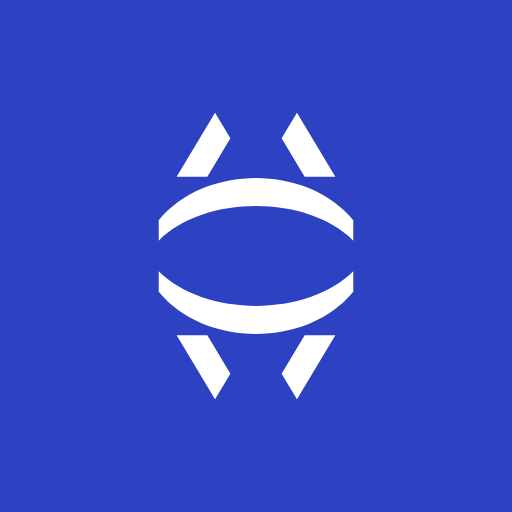
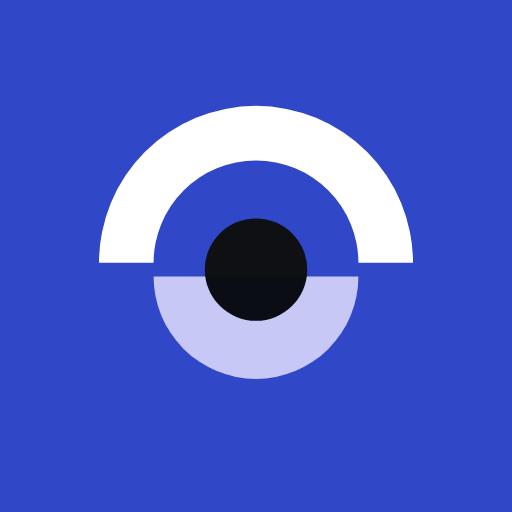
Reformulação 2: símbolo C · Pálpebra, ícones do app e olho carregando
Claude-Session: https://claude.ai/code/session_0161rdvNizfiCsBbM8YzYtuJ

Changed region(s): [[0.1875, 0.1875, 0.8125, 0.7812]]

diff --git a/app/ui/Geometria.tsx b/app/ui/Geometria.tsx
@@ -1,39 +1,39 @@
 /**
  * Linguagem geométrica do Monitora: círculos, arcos e interseções em módulos.
- * Marca: "lente" — dois arcos que afinam nas pontas (pálpebra aberta: observar) e quatro colchetes que enquadram a cidade.
- * Órbita: arcos concêntricos para carregamento — gira devagar (interação), para com reduced-motion.
+ * Marca: o olho "C · Pálpebra". Carregando: o olho pisca devagar.
  */
 /**
- * Marca do Monitora — "lente": dois arcos que afinam nas pontas formam uma pálpebra aberta (observar)
- * e quatro colchetes por fora enquadram a cidade. Simétrica nos dois eixos; viewBox 120; cor = currentColor.
- * Mesmos caminhos de public/icone.svg (lá em branco, escala 0,8, sobre #2C42C2).
+ * Marca do Monitora — símbolo "C · Pálpebra" (docs/REFORMULACAO.md, prancha docs/reformulacao/Simbolo2.dc.html).
+ * Um olho aberto em três peças sobre viewBox 120: o arco de cima (pálpebra), o meio-disco de baixo (base) e a pupila,
+ * sobreposta às duas com multiply (onde se cruzam, a cor escurece). Em ≤ 32 px usa a versão de fresta maior.
+ * Cores: no papel = lilás / ultramarino / tinta; no azul = branco / lilás / tinta.
  */
-export const MARCA_CAMINHOS = [
-  "M 98 46 C 80 24 40 24 22 46 L 22 54 C 40 36 80 36 98 54Z",
-  "M 98 74 C 80 96 40 96 22 74 L 22 66 C 40 84 80 84 98 66Z",
-  "M 76 4 L 91 29 L 79 29 L 70 14Z M 76 116 L 91 91 L 79 91 L 70 106Z M 44 4 L 29 29 L 41 29 L 50 14Z M 44 116 L 29 91 L 41 91 L 50 106Z",
-] as const;
+export const OLHO = {
+  normal: { cima: "M14 62 A46 46 0 0 1 106 62 L90 62 A30 30 0 0 0 30 62 Z", base: "M30 66 A30 30 0 0 0 90 66 Z", pupila: { cx: 60, cy: 64, r: 15 }, oCima: "60px 62px", oBase: "60px 66px" },
+  pequeno: { cima: "M8 60 A52 52 0 0 1 112 60 L92 60 A32 32 0 0 0 28 60 Z", base: "M28 68 A32 32 0 0 0 92 68 Z", pupila: { cx: 60, cy: 66, r: 16 }, oCima: "60px 60px", oBase: "60px 68px" },
+} as const;
+export const CORES_OLHO = {
+  papel: { cima: "var(--lilac)", base: "var(--ultramarine)", pupila: "var(--tinta)" },
+  azul: { cima: "#FFFFFF", base: "var(--lilac)", pupila: "var(--tinta)" },
+} as const;
 
-export function MarcaMonitora({ size = 22 }: { size?: number }) {
+/** Símbolo solto (sem fundo). `fundo` desenha o ícone do app (quadrado azul arredondado). `classe` liga as animações (abertura, piscadas). */
+export function MarcaMonitora({ size = 22, sobre = "papel", fundo = false, className }: { size?: number; sobre?: "papel" | "azul"; fundo?: boolean; className?: string }) {
+  const g = size <= 32 ? OLHO.pequeno : OLHO.normal;
+  const c = CORES_OLHO[fundo ? "azul" : sobre];
   return (
-    <svg width={size} height={size} viewBox="0 0 120 120" fill="currentColor" aria-hidden>
-      {MARCA_CAMINHOS.map((d) => <path key={d} d={d} />)}
+    <svg className={`olho${className ? ` ${className}` : ""}`} width={size} height={size} viewBox="0 0 120 120" aria-hidden style={{ isolation: "isolate", ["--o-cima" as string]: g.oCima, ["--o-base" as string]: g.oBase, ["--o-pup" as string]: `${g.pupila.cx}px ${g.pupila.cy}px` }}>
+      {fundo && <rect width="120" height="120" rx="27" fill="var(--ultramarine)" />}
+      <path className="cima" d={g.cima} fill={c.cima} />
+      <path className="baixo" d={g.base} fill={c.base} />
+      <circle className="pupila" {...g.pupila} fill={c.pupila} style={{ mixBlendMode: "multiply" }} />
     </svg>
   );
 }
 
-export function Orbita({ size = 44, rotulo = "Carregando" }: { size?: number; rotulo?: string }) {
-  return (
-    <span className="orbita" role="status" aria-label={rotulo} style={{ width: size, height: size }}>
-      <svg viewBox="0 0 48 48" fill="none" aria-hidden>
-        <circle cx="24" cy="24" r="20" stroke="currentColor" strokeOpacity=".12" strokeWidth="2" />
-        <path className="o1" d="M24 4a20 20 0 0 1 20 20" stroke="var(--live)" strokeWidth="2.4" strokeLinecap="round" />
-        <circle cx="24" cy="24" r="12" stroke="currentColor" strokeOpacity=".12" strokeWidth="2" />
-        <path className="o2" d="M36 24a12 12 0 0 1-12 12" stroke="currentColor" strokeWidth="2.4" strokeLinecap="round" />
-        <circle cx="24" cy="24" r="2.6" fill="var(--accent)" stroke="var(--surface)" strokeWidth="1" />
-      </svg>
-    </span>
-  );
+/** Carregando = o olho pisca devagar (substitui a antiga órbita). Com "reduzir movimento" fica parado. */
+export function OlhoCarregando({ size = 44, rotulo = "Carregando" }: { size?: number; rotulo?: string }) {
+  return <span className="olho-carregando" role="status" aria-label={rotulo}><MarcaMonitora size={size} className="pisca-lento" /></span>;
 }
 
 /** Ornamento de estados vazios: arcos concêntricos discretos atrás do ícone. */

diff --git a/app/globals.css b/app/globals.css
@@ -584,11 +584,25 @@ button { cursor: pointer; background: none; border: 0; padding: 0; }
 }
 
 /* ---------- 12. geometria ---------- */
-.orbita { display: inline-grid; place-items: center; color: var(--text); }
-.orbita svg { width: 100%; height: 100%; }
-.orbita .o1 { transform-origin: 24px 24px; animation: orbita 2.4s var(--ease-in-out) infinite; }
-.orbita .o2 { transform-origin: 24px 24px; animation: orbita 3.6s var(--ease-in-out) infinite reverse; }
-@keyframes orbita { to { transform: rotate(360deg); } }
+/* Olho (marca) — origens das pálpebras vêm do componente (--o-cima/--o-base/--o-pup). Só transform/opacidade. */
+.olho .cima { transform-box: view-box; transform-origin: var(--o-cima); }
+.olho .baixo { transform-box: view-box; transform-origin: var(--o-base); }
+.olho .pupila { transform-box: view-box; transform-origin: var(--o-pup); }
+.olho-carregando { display: inline-grid; place-items: center; }
+/* carregando: piscada lenta (2,4 s) */
+.pisca-lento .cima, .pisca-lento .baixo { animation: olhoLento 2.4s var(--ease-in-out) infinite; }
+@keyframes olhoLento { 0%, 30% { transform: scaleY(1); } 50% { transform: scaleY(.06); } 70%, 100% { transform: scaleY(1); } }
+/* dado atualizado: piscada curta, uma vez (a classe é recolocada a cada dado novo) */
+.pisca-curta .cima, .pisca-curta .baixo { animation: olhoCurta 420ms var(--ease-in-out) 1; }
+.pisca-curta .pupila { animation: pupilaCurta 420ms var(--ease-in-out) 1; }
+@keyframes olhoCurta { 0% { transform: scaleY(1); } 45% { transform: scaleY(.06); } 100% { transform: scaleY(1); } }
+@keyframes pupilaCurta { 0% { transform: scale(1); } 45% { transform: scale(.2); } 100% { transform: scale(1); } }
+/* abertura: 0–0,5 s abre; 0,9 s pisca; 1,2–1,6 s o nome entra (prancha docs/reformulacao/Abertura.dc.html, em 1,6 s) */
+.abre .cima, .abre .baixo { animation: abreOlho 1.6s cubic-bezier(.65, 0, .35, 1) 1 both; }
+.abre .pupila { animation: abrePupila 1.6s cubic-bezier(.65, 0, .35, 1) 1 both; }
+@keyframes abreOlho { 0% { transform: scaleY(.06); } 30% { transform: scaleY(1); } 55% { transform: scaleY(1); } 65% { transform: scaleY(.06); } 78%, 100% { transform: scaleY(1); } }
+@keyframes abrePupila { 0%, 25% { transform: scale(0); opacity: 0; } 40% { transform: scale(1.08); opacity: 1; } 48%, 55% { transform: scale(1); } 65% { transform: scale(.2); } 78%, 100% { transform: scale(1); opacity: 1; } }
+@media (prefers-reduced-motion: reduce) { .olho .cima, .olho .baixo, .olho .pupila { animation: none !important; } }
 
 /* ---------- 13. movimento reduzido ---------- */
 @media (prefers-reduced-motion: reduce) {

diff --git a/app/mobilidade/MobilidadeApp.tsx b/app/mobilidade/MobilidadeApp.tsx
@@ -1,7 +1,7 @@
 "use client";
 import { useCallback, useEffect, useMemo, useRef, useState } from "react";
 import dynamic from "next/dynamic";
-import { Orbita } from "../ui/Geometria";
+import { OlhoCarregando } from "../ui/Geometria";
 import { Star, TriangleAlert, Search, LocateFixed, TrainFront, Warehouse, BusFront, MapPin, X, Clock, CloudRain, Gauge, ChevronRight, Info, Navigation } from "lucide-react";
 import BottomSheet from "./BottomSheet";
 import { PAINEL_LATERAL, PAISAGEM } from "../ui/telas";
@@ -16,7 +16,7 @@ import estacoesJson from "../../src/data/estacoes-brt.json";
 
 const ESTACOES = estacoesJson.estacoes;
 
-const TransitMap = dynamic(() => import("./TransitMap"), { ssr: false, loading: () => <div className="map-carregando"><Orbita rotulo="Carregando o mapa" /></div> });
+const TransitMap = dynamic(() => import("./TransitMap"), { ssr: false, loading: () => <div className="map-carregando"><OlhoCarregando rotulo="Carregando o mapa" /></div> });
 
 const K_PONTO = "monitora:mob:ponto", K_LINHA = "monitora:mob:linha", K_RECENTES = "monitora:mob:recentes", K_SENTIDO = "monitora:mob:sentido";
 

diff --git a/app/monitor/MonitorApp.tsx b/app/monitor/MonitorApp.tsx
@@ -1,14 +1,14 @@
 "use client";
 import { useEffect, useMemo, useState } from "react";
 import dynamic from "next/dynamic";
-import { Orbita } from "../ui/Geometria";
+import { OlhoCarregando } from "../ui/Geometria";
 import { CloudRain } from "lucide-react";
 import { ErrorState, LastUpdated, Skel } from "../ui/estados";
 import { J, dec, get } from "../ui/util";
 import type { PontoFrota } from "./MonitorMap";
 import { COR_ESTADO } from "./MonitorMap";
 
-const MonitorMap = dynamic(() => import("./MonitorMap"), { ssr: false, loading: () => <div className="map-carregando"><Orbita rotulo="Carregando o mapa" /></div> });
+const MonitorMap = dynamic(() => import("./MonitorMap"), { ssr: false, loading: () => <div className="map-carregando"><OlhoCarregando rotulo="Carregando o mapa" /></div> });
 
 const n = (v: number | null | undefined) => (v == null ? "—" : v.toLocaleString("pt-BR"));
 const pct = (a: number, b: number) => (b ? Math.round((a / b) * 100) : null);
